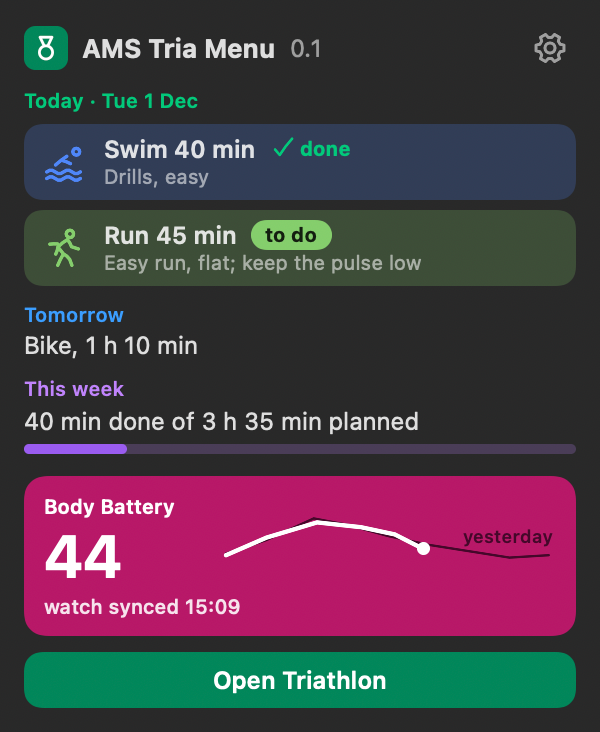
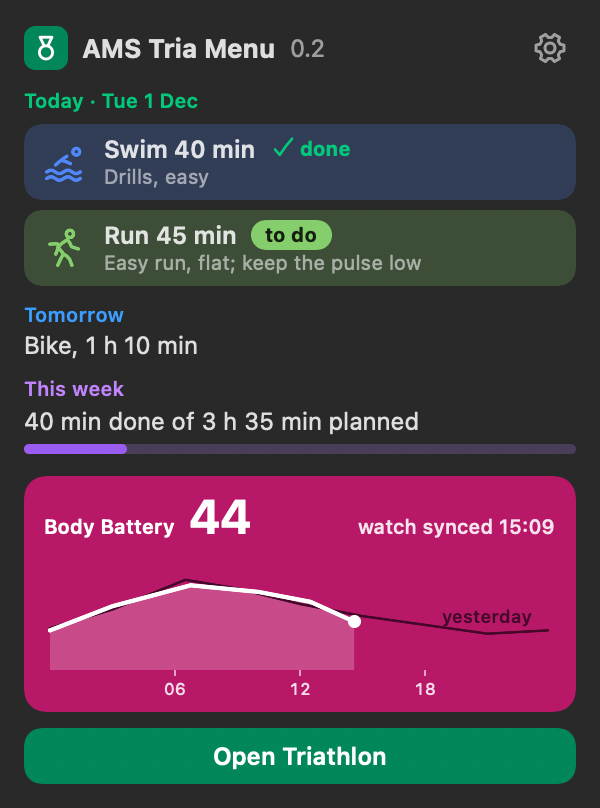
0.2 (2): the Body Battery card in look C3
His pick from one picture with numbered options (A1, B1, C3): the number right
beside the name, the small words at the right, and under them a curve as wide
as the card with a soft fill under today's line and the hours 06, 12, 18.
The menu bar item and the session rows stay as they were. What's new, How it
works, the sign and the spec updated; README pictures retaken.

diff --git a/App/Sources/Guide.swift b/App/Sources/Guide.swift
@@ -13,7 +13,7 @@ enum Guide {
         GuideSection(title: "The panel", body: "At the top are the small app tile (a white medal on green), the name, the version and the gear button for Settings.\n\nBelow it come, from top to bottom: Today, Tomorrow, This week and the Body Battery card. At the bottom is one green button, \"Open Triathlon\", which brings the Triathlon app to the front.\n\nThe panel opens under the mark and is 300 wide."),
         GuideSection(title: "Today's sessions", body: "The green heading says the day, for example \"Today \u{00B7} Tue 1 Dec\". Under it is one row for each session.\n\nA row shows the sport's mark, then the sport with its length right beside it, for example \"Run 45 min\". At the right end is a small filled pill \"to do\" in the sport's colour, or a green tick with \"done\", or the grey word \"missed\". Under that, in small grey words, stands the session's title.\n\nA click on a row opens that session in AMS Triathlon Training. The grey line under the rows says so.\n\nOn a rest day there is one row with the moon and \"Rest day\".\n\nIf there is no note for today, grey words say why. For example: \"No note for today yet. Triathlon writes it when it opens.\", or that Triathlon is not on this Mac, or that the Mac did not let the app read the note."),
         GuideSection(title: "Tomorrow and this week", body: "\"Tomorrow\" has a blue heading. It names tomorrow's first session, for example \"Bike, 1 h 10 min\", or \"Rest day\". It is missing when nothing is planned.\n\n\"This week\" has a purple heading. It says, for example, \"40 min done of 3 h 35 min planned\". Under it a slim purple bar is filled to that share."),
-        GuideSection(title: "Body Battery", body: "The raspberry card has white words. It shows \"Body Battery\", the number large, and small words such as \"watch synced 15:09\". That is when your watch last sent its readings. When it was not today, the weekday stands in front of the time.\n\nUnder it is a small curve of today. A white line has a dot at the newest reading. Yesterday is a thin dark plum line with the word \"yesterday\". The curve runs from midnight to midnight.\n\nThe curve is only as fine as the watch's syncs. The watch sends its readings a few times a day, so the line has few corners."),
+        GuideSection(title: "Body Battery", body: "The raspberry card has white words. At the top it shows \"Body Battery\" with the number right beside it, and at the right small words such as \"watch synced 15:09\". That is when your watch last sent its readings. When it was not today, the weekday stands in front of the time.\n\nUnder that is a curve as wide as the card. Today is a white line with a dot at the newest reading, and the ground under it is softly filled. Yesterday is a thin dark plum line with the word \"yesterday\". The curve runs from midnight to midnight. The small figures 06, 12 and 18 under it are the hours. The bottom line is 0 and the top of the card is 100.\n\nThe curve is only as fine as the watch's syncs. The watch sends its readings a few times a day, so the line has few corners."),
         GuideSection(title: "Where the figures come from", body: "Today's sessions, tomorrow and the week come from a small note that AMS Triathlon Training (2.8 or newer) writes on this Mac. It writes it each time it opens and when the plan changes. AMS Tria Menu reads the note once a minute.\n\nThe note counts only for its own day, so you never see yesterday's session. A note older than 36 hours is not used either.\n\nBody Battery comes from your own AMS Garmin Bridge Board, running on this Mac. They are the same numbers the Board shows. The app asks it every 30 minutes, and when the panel opens if the last answer is more than 5 minutes old. It asks so rarely because each answer makes the Board ask Garmin a good dozen questions, and Body Battery only changes when the watch syncs. No Garmin key is kept in this app.\n\nIf the Board does not answer, the app shows Body Battery as AMS Triathlon Training last read it, with the small words \"as Triathlon last read it\". If neither is there, you see a dash and \"Garmin Board not answering\".\n\nEarly in the day the Board may answer but have nothing for today yet, because the watch has not synced. Then you see a dash and \"no reading yet today\". The app never shows yesterday's number as today's.\n\nYesterday's line is the one AMS Triathlon Training read (the same line as on its Body page). If that is missing, the app uses its own memory of yesterday. It keeps the last three days' curves on this Mac only.\n\nNothing leaves the Mac. The app never contacts Garmin or the internet."),
         GuideSection(title: "Open Triathlon quietly", body: "Triathlon writes today's note only when it opens. So the app can open Triathlon for you, in the background: hidden, never in front, with no window. The note is there a few seconds later.\n\nIt does this when there is no note for today, which is each morning or after midnight. While a session is still to do, it does it again every 30 minutes. If Triathlon is still running hidden, it is closed politely and opened hidden again, so it reads the plan afresh. That way a session you log on the iPhone turns into the green tick here.\n\nWhen everything is done, or it is a rest day, the app leaves Triathlon alone. It never touches Triathlon while its window is showing.\n\nIf a try brings no note, the app waits 20 minutes before the next.\n\nThe switch is in Settings and is on at first. With it off, the grey mark and the words \"No note for today yet\" stay until you open Triathlon yourself. \"Refresh now\" in the right-click menu still works.\n\nOn the Mac, Triathlon cannot log a session. Only the iPhone logs. So there is no \"done\" button here. A click only opens the session."),
         GuideSection(title: "First start", body: "Nothing to set up. The app starts reading as soon as it runs. \"Open at login\" is switched on in Settings when the app is installed.\n\nOn this Mac the app read Triathlon's note without any question, because both apps are yours. Should the Mac ever ask whether \"AMS Tria Menu\" may access data from other apps, answer Allow. If it was refused, the panel says so, and you can allow it in System Settings, under Privacy & Security."),
@@ -31,7 +31,7 @@ enum Guide {
         GuideSign(kind: .tickDone, name: "Tick with \"done\"", meaning: "This session is done. Nothing else is ever a tick."),
         GuideSign(kind: .wordMissed, name: "Grey \"missed\"", meaning: "This session was planned for today and not done."),
         GuideSign(kind: .bodyCard, name: "Raspberry card", meaning: "Body Battery."),
-        GuideSign(kind: .todayLine, name: "White line with a dot", meaning: "Today's Body Battery so far. The dot is the newest reading."),
+        GuideSign(kind: .todayLine, name: "White line with a dot", meaning: "Today's Body Battery so far, softly filled under it. The dot is the newest reading."),
         GuideSign(kind: .yesterdayLine, name: "Thin dark line", meaning: "Yesterday's Body Battery."),
         GuideSign(kind: .green, name: "Green heading", meaning: "Today."),
         GuideSign(kind: .blue, name: "Blue heading", meaning: "Tomorrow."),
@@ -41,6 +41,14 @@ enum Guide {
     ]
 
     static let whatsNew: [Release] = [
+        Release(version: "0.2", date: "26 Nov 2026", items: [
+            "The Body Battery card has a new look, the one you picked from the picture (C3). Before: the number large on the left and a small curve beside it. Now: \"Body Battery\" with the number right beside it at the top, and under it a curve as wide as the card.",
+            "The ground under today's line is softly filled, so you see at a glance how full the day has been.",
+            "Under the curve are the hours 06, 12 and 18, so you can tell when a rise or a drop happened.",
+            "The words \"watch synced 15:09\" moved to the top right of the card.",
+            "The card is about 25 points taller than before. Nothing else in the panel changed, and the menu bar item and the session rows stay as they were (your picks A1 and B1).",
+            "How it works and the sign \"White line with a dot\" say the same.",
+        ]),
         Release(version: "0.1", date: "26 Nov 2026", items: [
             "New app: AMS Tria Menu, a small Mac menu bar app with no Dock icon. It shows today's training and your Body Battery at a glance. It only reads and never changes your plan.",
             "The menu bar shows a small hand-drawn mark and a number. The number is always your Body Battery, from 0 to 100, or a dash when it is not known.",

diff --git a/App/Sources/PanelView.swift b/App/Sources/PanelView.swift
@@ -154,32 +154,32 @@ struct PanelView: View {
 
     // MARK: Body Battery
 
+    /// 0.2 (his pick C3): the name with the number right beside it, the small words at the right, and under
+    /// them a wide curve of the day with the hours.
     private var bodyCard: some View {
         let shown = model.body
         let today = DayKey.of(model.now)
         let start = DayKey.start(of: today)?.timeIntervalSince1970 ?? 0
-        return VStack(alignment: .leading, spacing: 1) {
-            HStack(alignment: .center, spacing: 6) {
-                VStack(alignment: .leading, spacing: 0) {
-                    Text("Body Battery").font(.caption.weight(.semibold))
-                    Text(Words.number(shown.latest)).font(.system(size: 30, weight: .bold)).monospacedDigit()
-                        .accessibilityIdentifier("bodyNumber")
-                }
-                Spacer(minLength: 0)
-                if !shown.today.isEmpty || !shown.yesterday.isEmpty {
-                    BodyCurveView(today: BodyCurve.spots(shown.today, dayStart: start),
-                                  yesterday: BodyCurve.spots(shown.yesterday, dayStart: start - 86_400),
-                                  plum: Palette.yesterday(scheme))
-                        .frame(width: 168, height: 50)
-                }
+        return VStack(alignment: .leading, spacing: 3) {
+            HStack(alignment: .firstTextBaseline, spacing: 7) {
+                Text("Body Battery").font(.caption.weight(.semibold))
+                Text(Words.number(shown.latest)).font(.system(size: 24, weight: .bold)).monospacedDigit()
+                    .accessibilityIdentifier("bodyNumber")
+                Spacer(minLength: 4)
+                Text(shown.smallWords(now: model.now)).font(.caption2).opacity(0.88).lineLimit(1).minimumScaleFactor(0.8)
+                    .accessibilityIdentifier("bodyWords")
             }
-            // Under the number, across the whole card: the words never push the card wider than the panel.
-            Text(shown.smallWords(now: model.now)).font(.caption2).opacity(0.88).lineLimit(1)
-                .accessibilityIdentifier("bodyWords")
+            if !shown.today.isEmpty || !shown.yesterday.isEmpty {
+                BodyCurveView(today: BodyCurve.spots(shown.today, dayStart: start),
+                              yesterday: BodyCurve.spots(shown.yesterday, dayStart: start - 86_400),
+                              plum: Palette.yesterday(scheme))
+                    .frame(height: 74)
+            }
         }
         .foregroundStyle(Color.white)
         .padding(.horizontal, 10)
-        .padding(.vertical, 8)
+        .padding(.top, 6)
+        .padding(.bottom, 7)
         .background(Palette.bodyFill(scheme), in: RoundedRectangle(cornerRadius: 11, style: .continuous))
         .padding(.top, 3)
         .accessibilityElement(children: .combine)
@@ -203,27 +203,43 @@ struct PanelView: View {
     }
 }
 
-/// The small curve on the Body Battery card: today as a white line with a dot at the newest reading,
-/// yesterday as a thin dark line with its word. Midnight to midnight, 0 at the bottom, 100 at the top.
+/// The curve on the Body Battery card: today as a white line with a dot at the newest reading and a soft
+/// fill under it, yesterday as a thin dark line with its word. Midnight to midnight with the hours 06, 12, 18
+/// under it; 0 at the bottom line, 100 at the top.
 struct BodyCurveView: View {
     let today: [BodyCurve.Spot]
     let yesterday: [BodyCurve.Spot]
     let plum: Color
 
+    /// Room under the curve for the hour marks and their figures.
+    private let foot: CGFloat = 14
+
     var body: some View {
         GeometryReader { room in
             let size = room.size
             ZStack(alignment: .topLeading) {
-                line(yesterday, in: size).stroke(plum, style: StrokeStyle(lineWidth: 1.2, lineCap: .round, lineJoin: .round))
+                area(today, in: size).fill(Color.white.opacity(0.22))
+                line(yesterday, in: size).stroke(plum, style: StrokeStyle(lineWidth: 1.3, lineCap: .round, lineJoin: .round))
                 line(today, in: size).stroke(Color.white, style: StrokeStyle(lineWidth: 2.2, lineCap: .round, lineJoin: .round))
                 if let last = today.last {
-                    Circle().fill(Color.white).frame(width: 6.4, height: 6.4)
+                    Circle().fill(Color.white).frame(width: 6.6, height: 6.6)
                         .position(place(last, in: size))
                 }
                 if let spot = wordSpot {
                     Text("yesterday").font(.system(size: 9, weight: .semibold)).foregroundStyle(plum).fixedSize()
                         .position(x: min(max(place(spot, in: size).x, 24), size.width - 24),
-                                  y: max(place(spot, in: size).y - 11, 6))
+                                  y: max(place(spot, in: size).y - 9, 6))
+                }
+                ForEach([6, 12, 18], id: \.self) { hour in
+                    let x = 3 + CGFloat(hour) / 24 * (size.width - 6)
+                    Path { path in
+                        path.move(to: CGPoint(x: x, y: size.height - foot))
+                        path.addLine(to: CGPoint(x: x, y: size.height - foot + 3))
+                    }
+                    .stroke(Color.white.opacity(0.6), lineWidth: 1)
+                    Text(String(format: "%02d", hour)).font(.system(size: 8.5)).monospacedDigit().foregroundStyle(Color.white.opacity(0.85))
+                        .fixedSize()
+                        .position(x: x, y: size.height - 4.5)
                 }
             }
         }
@@ -238,7 +254,8 @@ struct BodyCurveView: View {
     }
 
     private func place(_ spot: BodyCurve.Spot, in size: CGSize) -> CGPoint {
-        CGPoint(x: 3 + spot.x * (size.width - 6), y: size.height - 4 - spot.y * (size.height - 10))
+        let base = size.height - foot
+        return CGPoint(x: 3 + spot.x * (size.width - 6), y: base - spot.y * (base - 5))
     }
 
     private func line(_ spots: [BodyCurve.Spot], in size: CGSize) -> Path {
@@ -246,6 +263,17 @@ struct BodyCurveView: View {
         guard spots.count > 1 else { return path }
         path.move(to: place(spots[0], in: size))
         for spot in spots.dropFirst() { path.addLine(to: place(spot, in: size)) }
+        return path
+    }
+
+    /// The ground under today's line, down to the bottom line.
+    private func area(_ spots: [BodyCurve.Spot], in size: CGSize) -> Path {
+        var path = line(spots, in: size)
+        guard let first = spots.first, let last = spots.last, spots.count > 1 else { return Path() }
+        let base = size.height - foot
+        path.addLine(to: CGPoint(x: place(last, in: size).x, y: base))
+        path.addLine(to: CGPoint(x: place(first, in: size).x, y: base))
+        path.closeSubpath()
         return path
     }
 }

diff --git a/Docs/SPEC.md b/Docs/SPEC.md
@@ -27,7 +27,7 @@ A small hand-drawn mark and a number.
 3. If there is no note for today, grey words say why: "No note for today yet. Triathlon writes it when it opens.", or "AMS Triathlon Training is not on this Mac.", or that the Mac did not let the app read the note (allow it in System Settings, Privacy & Security), or that the note is newer than this version understands.
 4. "Tomorrow" (blue heading): tomorrow's first session, for example "Bike, 1 h 10 min", or "Rest day". Missing when nothing is planned.
 5. "This week" (purple heading): for example "40 min done of 3 h 35 min planned", and a slim purple bar filled to that share (done divided by planned, limited to 0 to 1; no bar when nothing is planned).
-6. Body Battery card (raspberry, filled, white words): "Body Battery", the number large, small words "watch synced 15:09" (the watch's last sync; with the weekday, for example "watch synced Mon 15:09", when it was not today), and a small curve. Today is a white line with a dot at the newest reading. Yesterday is a thin dark plum line with the word "yesterday". The curve runs from midnight to midnight. It is only as fine as the watch's syncs: a few readings a day give a line with few corners.
+6. Body Battery card (raspberry, filled, white words; look C3 since 0.2). Top line: "Body Battery" with the number (24 points, bold) right beside it, and at the right the small words "watch synced 15:09" (the watch's last sync; with the weekday, for example "watch synced Mon 15:09", when it was not today). Under it a curve as wide as the card, 74 points tall: today is a white line (2.2) with a dot at the newest reading and a soft white fill (22 %) under it down to the bottom line; yesterday is a thin dark plum line (1.3) with the word "yesterday". The curve runs from midnight to midnight; the bottom line is 0, the top 100; small marks and the figures 06, 12 and 18 under it are the hours. It is only as fine as the watch's syncs. With no reading at all the curve is left out.
 7. One full-colour green main button "Open Triathlon". It brings the Triathlon app to the front (`amsworkoutsync://today`).
 
 There is no "done" button. Triathlon cannot log a session on the Mac (only the iPhone logs), so a click only opens the session.
@@ -120,7 +120,8 @@ Ten small rule tests in `Core/Tests/TriaMenuCoreTests/RulesTests.swift` (all val
 
 ## Version history
 
-- 0.1 (1), 26 Nov 2026: first version, as described above.
+- 0.2 (2), 26 Nov 2026: the Body Battery card in look C3 (his pick from one picture with numbered options; he kept the menu bar item and the session rows as they were): number beside the name, wide curve with a soft fill under today and the hours 06, 12, 18. In 0.1 the number stood large on the left with a small curve (150 by 62 points) beside it.
+- 0.1 (1), 26 Nov 2026: first version.
 
 ## Checks from outside (for whoever maintains it)
 
